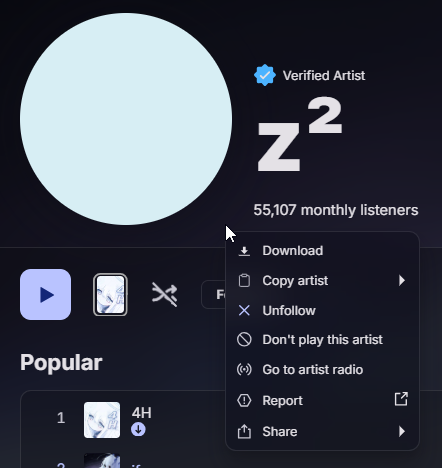
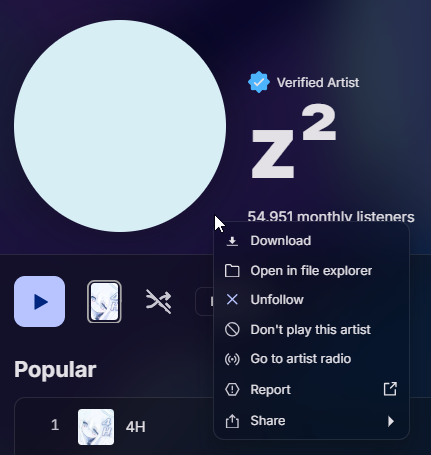
Add "Open in file explorer" button (Spicetify)

diff --git a/spotifyDL.js b/spotifyDL.js
@@ -1,10 +1,10 @@
-(async function downloadButton() {
+(async function spotifyDL() {
   if (!Spicetify.React || !Spicetify.ReactDOM || !Spicetify.ContextMenu) {
-    setTimeout(downloadButton, 300);
+    setTimeout(spotifyDL, 300);
     return;
   }
 
-  const downloadItem = new Spicetify.ContextMenu.Item(
+  const downloadButton = new Spicetify.ContextMenu.Item(
     "Download",
     async (uris) => {
       // Increment task count
@@ -14,11 +14,8 @@
 
       for (const uri of uris) {
         try {
-          const elementId = uri.split(":")[2];
-          const elementType = uri.split(":")[1];
-          const elementUrl = `https://api.spotify.com/v1/${
-            elementType === "track" ? "tracks" : elementType + "s"
-          }/${elementId}`;
+          const [, elementType, elementId] = uri.split(":");
+          const elementUrl = `https://api.spotify.com/v1/${elementType}s/${elementId}`;
           const elementData = await Spicetify.CosmosAsync.get(elementUrl);
           const elementName = elementData.name;
 
@@ -54,12 +51,13 @@
               }
             })
             .catch((error) => {
-              console.error(error);
+              console.error(`Error during download: ${error}`);
               Spicetify.showNotification(
                 `${error}. Make sure the SpotifyDL server is running.`,
                 true,
                 3000
               );
+              return;
             });
         } catch (error) {
           console.error("Error during URI parsing:", error);
@@ -76,6 +74,76 @@
     false
   );
 
-  downloadItem.register();
+  const openInExplorerButton = new Spicetify.ContextMenu.Item(
+    "Open in file explorer",
+    async (uris) => {
+      for (const uri of uris) {
+        try {
+          const [, elementType, elementId] = uri.split(":");
+          const response = await fetch(
+            `http://localhost:5000/open/${elementType}/${elementId}`,
+            {
+              method: "GET",
+            }
+          );
+
+          if (!response.ok) {
+            Spicetify.showNotification(
+              "The song or album has not been downloaded yet !",
+              false,
+              3000
+            );
+          }
+        } catch (error) {
+          console.error(`Error opening file: ${error}`);
+          Spicetify.showNotification(
+            `${error}. Make sure the SpotifyDL server is running.`,
+            true,
+            3000
+          );
+          return;
+        }
+      }
+    },
+    (uris) => {
+      if (!uris) return false;
+      const validTypes = ["track", "album", "artist"];
+      const isValidType = validTypes.some((type) =>
+        uris[0].includes(`spotify:${type}:`)
+      );
+      if (!isValidType) return false;
+
+      // Only enable button if all items are downloaded
+      // Wait for all fetches to complete
+      Promise.all(
+        uris.map(async (uri) => {
+          const [, elementType, elementId] = uri.split(":");
+          try {
+            const response = await fetch(
+              `http://localhost:5000/is_downloaded/${elementType}/${elementId}`,
+              {
+                method: "GET",
+              }
+            );
+            const isDownloaded = (await response.text()) === "true";
+            return isDownloaded;
+          } catch (error) {
+            console.log(`${error}. The server is probably not running.`);
+            return false;
+          }
+        })
+      ).then((results) => {
+        const allDownloaded = results.every((result) => result === true);
+        openInExplorerButton.disabled = !allDownloaded;
+      });
+
+      return true;
+    },
+    "playlist-folder",
+    false
+  );
+
+  downloadButton.register();
+  openInExplorerButton.register();
   console.log("Download button loaded");
 })();

diff --git a/spicetify_server.py b/spicetify_server.py
@@ -10,6 +10,7 @@ from config import OPEN_IN_EXPLORER_AFTER_DOWNLOAD
 from src.libre_spotify import Librespot
 from src.spotify_api import SpotifyAPI
 from src.spotify_dl import download
+from src.track_dataclass import Track
 
 app = Flask(__name__)
 CORS(
@@ -36,6 +37,16 @@ class Server:
             "/<element_type>/<element_id>",
             "request_download",
             self.request_download,
+        )
+        app.add_url_rule(
+            "/is_downloaded/<element_type>/<element_id>",
+            "is_downloaded",
+            self.is_downloaded,
+        )
+        app.add_url_rule(
+            "/open/<element_type>/<element_id>",
+            "open_in_explorer",
+            self.open_in_explorer,
         )
 
     async def main(self) -> None:
@@ -71,7 +82,7 @@ class Server:
             else:
                 self.tasks_parent_path = self.tasks_parent_path.parents[1]
 
-    # FLASK ENDPOINT FUNCTIONS
+    # FLASK ENDPOINT METHODS
     def add_tasks(self, task_count) -> str:
         self.download_task_count += int(task_count)
         return str(self.download_task_count)
@@ -97,6 +108,26 @@ class Server:
                     self.reset_tasks()
 
         return "keqing"
+
+    def is_downloaded(self, element_type, element_id, check_type=any) -> str:
+        tracks: list[Track] = self.api.get_tracks(id_=element_id, type=element_type)
+        bd = {True: "true", False: "false"}
+        if not tracks:
+            return bd[False]
+
+        downloaded = check_type(track.get_path().exists() for track in tracks)
+        return bd[downloaded]
+
+    def open_in_explorer(self, element_type, element_id) -> str:
+        tracks: list[Track] = self.api.get_tracks(id_=element_id, type=element_type)
+        # is_downloaded should have been called before
+
+        if element_type in {"track", "album"}:
+            os.startfile(tracks[0].get_path().parent)
+        elif element_type == "artist":
+            os.startfile(tracks[0].get_path().parents[1])
+
+        return "ok"
 
 
 if __name__ == "__main__":
